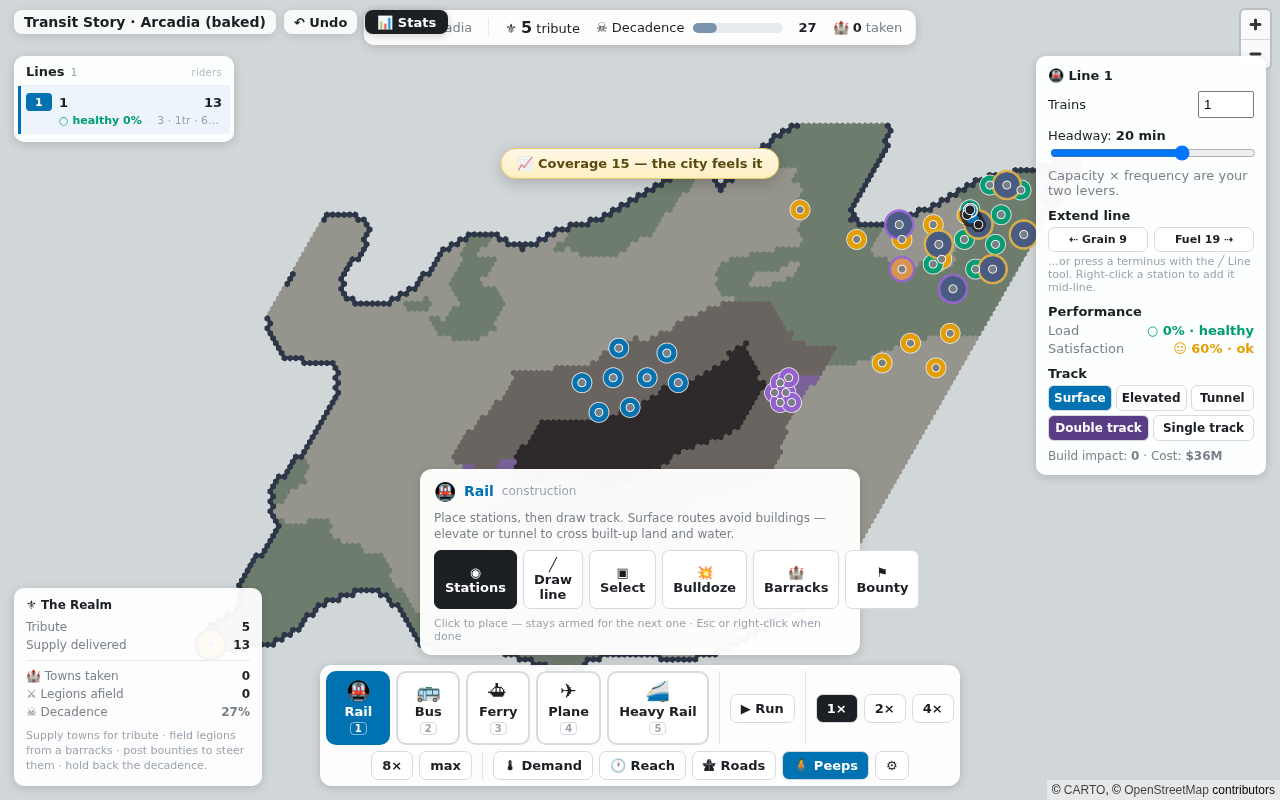
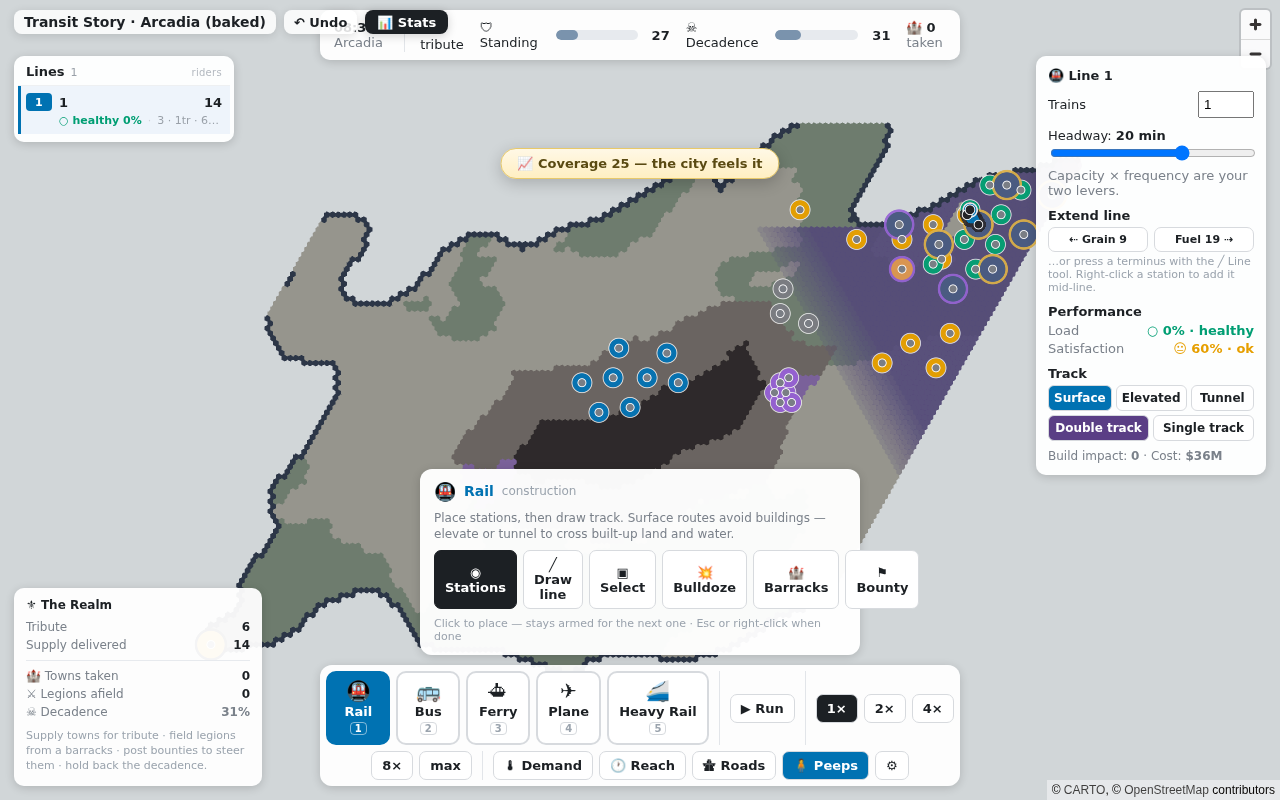
feat(sim): S7e step 2 — the 3-stage Forge-Line lands on the baked continent
Wire the iteration-11 multi-stage engine into the procedural world: the bake
now sites FORGE (processor) nodes and the ARMS towns demand [INGOT, AETHER]
(ore -> forge -> INGOT -> arms town), while BREAD towns stay the 2-stage
grain+fuel chain. Adding a processed good flips has_multistage true for the
baked world, so commodity-aware routing is now live end-to-end on the real
bundle.

- build_world.py: INGOT=4, ARMS_RECIPE=[INGOT,AETHER]; place_forges sites one
  forge per ARMS town on the ore->ARMS-town corridor (midpoint of the town and
  its nearest ore). emit gives each forge an INGOT-origin + ORE-dest demand cell
  (the sim classifies it a processor); forges ride the resources path so
  networkFromSupplyGraph places them as stations. Selftest extended + PASS.
- The corridor fix: the first cut sited forges on the ore->capital corridor, but
  ARMS towns sit by the ore highland, stranding forges ~43 km from the towns they
  feed (chain never primed — the multistage e2e caught it at tribute=0/75min).
  Re-sited to the ore->ARMS-town corridor: ~8-14 km legs, chain closes at ~25min.
- e2e: new fantasy-multistage.spec.ts proves the 3-stage chain on the real baked
  world; fantasy-play/fantasy-conquest supply via the 2-stage BREAD towns (raw
  recipe, commodity < 4) so a 3-stage ARMS town can't break their nearestSrc.
- render.ts: forge resource color (steel grey).

Tiers: cargo 202/0 (engine untouched since iteration 11 -> both goldens
[…]

Changed region(s): [[0.5938, 0.2188, 0.8125, 0.5938], [0.25, 0.0, 0.75, 0.0938]]

diff --git a/packages/app/e2e/fantasy-multistage.spec.ts b/packages/app/e2e/fantasy-multistage.spec.ts
@@ -1,0 +1,74 @@
+import { expect, test } from "@playwright/test";
+
+// S7e-2 — the 3-STAGE Forge-Line chain on the BAKED world. The baked continent now carries FORGE nodes
+// (processors) and ARMS towns whose recipe is [INGOT=4, AETHER=2]. INGOT has NO source — it must be
+// FORGED from ore at a forge node, then shipped onward. This proves, end-to-end on the real bundle +
+// geometry, that the full chain closes: ore → forge → INGOT → arms-town, plus aether → arms-town, both
+// consumed by Liebig → tribute. Tribute can ONLY appear if (a) the forge converted ore → ingot and (b)
+// commodity-aware routing carried the ore to the forge (not past it to the town) — so a positive tribute
+// is direct proof the processor + commodity routing work on the baked data. Deterministic via tickMs.
+test("fantasy baked world: 3-stage Forge-Line (ore → forge → arms town) yields tribute", async ({ page }) => {
+  test.setTimeout(60_000);
+  await page.goto("/?city=fantasy");
+  await page.waitForFunction(() => (window as any).__APP_READY && (window as any).__MAP_READY, undefined, { timeout: 30_000 });
+
+  const start = await page.evaluate(async () => {
+    const m = await (await fetch("/data/fantasy_world.json")).json();
+    const sg = m.supplyGraph;
+    const nt = sg.towns.length;
+    const KIND: Record<string, number> = { ore: 0, grain: 1, aether: 2, fuel: 3 };
+    const hex = (a: any, b: any) => (Math.abs(a.q - b.q) + Math.abs(a.q + a.r - b.q - b.r) + Math.abs(a.r - b.r)) / 2;
+    // nearest RAW resource of a commodity to a node → station id (towns 0..nt-1, then resources at nt+ri)
+    const nearestSrc = (node: any, comm: number) => {
+      let bi = -1, bd = 1e9;
+      sg.resources.forEach((r: any, ri: number) => {
+        if (KIND[r.kind] === comm) { const d = hex(node, r); if (d < bd) { bd = d; bi = ri; } }
+      });
+      return bi < 0 ? -1 : nt + bi;
+    };
+    // nearest FORGE (processor node) to a node → station id
+    const nearestForge = (node: any) => {
+      let bi = -1, bd = 1e9;
+      sg.resources.forEach((r: any, ri: number) => {
+        if (r.kind === "forge") { const d = hex(node, r); if (d < bd) { bd = d; bi = ri; } }
+      });
+      return bi < 0 ? -1 : nt + bi;
+    };
+    // an ARMS town: recipe includes INGOT (4) — a 3-stage chain (INGOT is forged from ore, not mined).
+    const armsTi = sg.towns.findIndex((t: any) => Array.isArray(t.recipe) && t.recipe.includes(4));
+    const arms = sg.towns[armsTi];
+    const forgeSid = nearestForge(arms);          // the forge nearest the arms town
+    const forge = sg.resources[forgeSid - nt];
+    const oreSid = nearestSrc(forge, 0);          // ore for the forge to convert → INGOT
+    const aetherSid = nearestSrc(arms, 2);        // aether (the arms town's other Liebig input)
+    const tt = (window as any).__ot_test;
+    // The player wires the chain across three lines: ore→forge, forge→arms-town, aether→arms-town.
+    tt.drawLine([oreSid, forgeSid]);   // stage 1: mine ore → forge (forge consumes ore, makes INGOT)
+    tt.drawLine([forgeSid, armsTi]);   // stage 2: forge INGOT → arms town
+    tt.drawLine([aetherSid, armsTi]);  // stage 3: aether → arms town (the second Liebig input)
+    for (let l = 0; l < 3; l++) { tt.assignTrainset(l, 4); tt.setHeadwayMs(l, 120000); }
+    return { ruleset: tt.stats().ruleset, armsRecipe: arms.recipe, forgeKind: forge.kind, oreSid, forgeSid, aetherSid };
+  });
+  expect(start.ruleset).toBe("arcadia");
+  expect(start.armsRecipe).toContain(4);      // a genuine 3-stage (INGOT-consuming) town
+  expect(start.forgeKind).toBe("forge");      // the middle node is a processor
+  expect(start.oreSid).toBeGreaterThan(0);    // every leg resolved to a real station
+  expect(start.aetherSid).toBeGreaterThan(0);
+
+  // Run a long deterministic stretch (each tickMs step is instant — no rAF). The forge must first
+  // accumulate ore, convert it to INGOT, and ship it on before the arms town can consume INGOT+AETHER —
+  // a longer ramp than a 2-stage chain, so budget generously (still well inside the decadence runway).
+  let tribute = 0;
+  const traj: number[] = [];
+  for (let i = 0; i < 30; i++) {
+    tribute = await page.evaluate(() => {
+      (window as any).__ot_test.tickMs(150000); // 150 sim-sec per step
+      return (window as any).__ot_test.stats().tribute;
+    });
+    traj.push(tribute);
+    if (tribute > 0) break;
+  }
+  // eslint-disable-next-line no-console
+  console.log("3-STAGE FORGE-LINE tribute trajectory:", JSON.stringify(traj));
+  expect(tribute).toBeGreaterThan(0); // the full 3-stage chain closed on the real baked world
+});

diff --git a/packages/app/e2e/fantasy-play.spec.ts b/packages/app/e2e/fantasy-play.spec.ts
@@ -33,10 +33,12 @@ test("fantasy baked world is playable: supply flows to tribute", async ({ page }
     const nt = sg.towns.length;
     const KIND: Record<string, number> = { ore: 0, grain: 1, aether: 2, fuel: 3 };
     const hex = (a: any, b: any) => (Math.abs(a.q - b.q) + Math.abs(a.q + a.r - b.q - b.r) + Math.abs(a.r - b.r)) / 2;
-    // S7e-2: a baked town demands BOTH inputs of its chain (BREAD = grain+fuel, ARMS = ore+aether) — Liebig.
-    // Pick a 2-input town, find the nearest source of EACH required commodity, and run a line src1→town→src2
-    // so both chains reach it (one input alone yields no tribute). Station ids: towns 0..nt-1, then resources.
-    const ti = sg.towns.findIndex((t: any) => t.kind !== "capital" && t.recipe?.length === 2);
+    // S7e-2: a baked town demands BOTH inputs of its chain — Liebig. Pick a 2-stage BREAD town (recipe =
+    // grain+fuel, both commodities < 4 → railable directly from raw sources), find the nearest source of
+    // EACH required commodity, and run a line src1→town→src2 so both chains reach it (one input alone yields
+    // no tribute). The 3-stage ARMS towns (recipe includes INGOT=4, which has no source — it's forged) are
+    // proven separately by fantasy-multistage.spec.ts. Station ids: towns 0..nt-1, then resources.
+    const ti = sg.towns.findIndex((t: any) => t.kind !== "capital" && t.recipe?.length === 2 && t.recipe.every((c: number) => c < 4));
     const town = sg.towns[ti];
     const nearestSrc = (comm: number) => {
       let bi = -1, bd = 1e9;

diff --git a/packages/app/e2e/fantasy-conquest.spec.ts b/packages/app/e2e/fantasy-conquest.spec.ts
@@ -27,9 +27,13 @@ test("fantasy baked world is winnable: supply → legions → conquest, realm ho
     const tt = (window as any).__ot_test;
     const capitalIdx = sg.towns.findIndex((t: any) => t.kind === "capital");
     const sinks = sg.towns.map((t: any, i: number) => ({ t, i })).filter((x: any) => x.t.kind !== "capital" && x.t.recipe?.length === 2);
+    // Supply via the 2-stage BREAD towns (raw recipe, commodity < 4) — directly railable from raw sources.
+    // ARMS towns are now 3-stage (need INGOT from a forge, commodity ≥ 4); their chain is exercised by
+    // fantasy-multistage.spec.ts. Tribute from BREAD funds the legions all the same.
+    const breadSinks = sinks.filter((x: any) => x.t.recipe.every((c: number) => c < 4));
     let line = 0;
-    // Supply: connect two towns' full chains (src1→town→src2) so the two-chain Liebig tribute flows.
-    for (const { t, i } of sinks.slice(0, 2)) {
+    // Supply: connect two BREAD towns' full chains (src1→town→src2) so the two-chain Liebig tribute flows.
+    for (const { t, i } of breadSinks.slice(0, 2)) {
       tt.drawLine([nearestSrc(t, t.recipe[0]), i, nearestSrc(t, t.recipe[1])]);
       tt.assignTrainset(line, 4);
       tt.setHeadwayMs(line, 120000);

diff --git a/packages/app/src/render.ts b/packages/app/src/render.ts
@@ -167,6 +167,7 @@ function resourceColor(kind: string): [number, number, number] {
     case "grain": return [230, 159, 0];   // wheat gold
     case "fuel": return [0, 158, 115];    // forest green
     case "aether": return [148, 96, 210]; // arcane violet
+    case "forge": return [120, 124, 130];  // steel grey — a PROCESSOR (ore → INGOT), S7e multi-stage
     default: return [200, 200, 200];
   }
 }

diff --git a/scripts/build_world.py b/scripts/build_world.py
@@ -72,11 +72,15 @@ RES_GLYPH = {"ore": "O", "grain": "G", "fuel": "F", "aether": "A"}
 # Forge-Line commodity index per resource kind — MUST match crates/sim/forge.rs (ORE=0, GRAIN=1, AETHER=2,
 # FUEL=3). A source's demand cell carries this so the sim assigns the station's output commodity (S7e).
 COMMODITY_IDX = {"ore": 0, "grain": 1, "aether": 2, "fuel": 3}
-# The two disjoint chains (S7e-2 Liebig recipes): BREAD = grain+fuel feeds towns; ARMS = ore+aether arms
-# legions. A town's recipe is the chain its NEAREST resource belongs to — so breadbasket towns demand BREAD,
-# highland towns demand ARMS, and the two chains stay geographically separate (the disjoint-chain payoff).
-BREAD_KINDS = ["grain", "fuel"]
-ARMS_KINDS = ["ore", "aether"]
+INGOT = 4  # a MID good (>= forge::FIRST_MID=4): a FORGE processes ORE → INGOT (S7e multi-stage)
+# The two disjoint chains. BREAD = grain+fuel (2-stage) feeds towns. ARMS is now 3-STAGE (S7e multi-stage):
+# ORE is mined → a FORGE forges it into INGOT → an ARMS town consumes INGOT + AETHER. So ARMS towns demand
+# [INGOT, AETHER] (not raw ore), and the player must rail ore → forge → town. BREAD stays the 2-stage
+# grain+fuel chain. Commodity indices MUST match crates/sim/forge.rs.
+BREAD_RECIPE = [COMMODITY_IDX["grain"], COMMODITY_IDX["fuel"]]
+ARMS_RECIPE = [INGOT, COMMODITY_IDX["aether"]]
+# How many INGOT forges to site (in the corridor between the ore highland and the lowland ARMS towns).
+FORGE_BUDGET = 4
 
 # --- S3 towns (docs/fantasy-map.md): the supply SINKS (consume delivered goods → tribute) AND the
 #     conquest targets. Suitability-sited near resource clusters (so they're worth taking + can be fed/
@@ -353,6 +357,36 @@ def place_resources(biome, capital, rough):
     return out
 
 
+def place_forges(biome, resources, towns):
+    """S7e multi-stage: site INGOT forges ON THE ORE → ARMS-TOWN CORRIDOR, so the player rails ORE → forge →
+    ARMS town over two reasonable legs (a forge sited toward the capital instead would strand it ~40 km from
+    the ARMS towns it feeds — the chain would never prime). One forge per ARMS town (the towns whose recipe
+    needs INGOT), placed at the passable cell nearest the midpoint of that town and its NEAREST ore resource.
+    Deterministic; a forge is a PROCESSOR (origin INGOT + dest ORE) the sim classifies from its demand cells.
+    Returns dicts {kind:"forge", q, r, yield}."""
+    ore_res = [(x["q"], x["r"]) for x in resources if x["kind"] == "ore"]
+    arms_towns = [t for t in towns if t.get("recipe") and INGOT in t["recipe"]]
+    forges, used = [], set()
+    for t in arms_towns:
+        if len(forges) >= FORGE_BUDGET or not ore_res:
+            break
+        tq, tr = t["q"], t["r"]
+        oq, orr = min(ore_res, key=lambda o: (hex_dist(o, (tq, tr)), o[1], o[0]))  # ore nearest THIS town
+        mq, mr = (oq + tq) // 2, (orr + tr) // 2  # corridor midpoint ore ↔ arms town
+        best, bd = None, 1 << 30
+        for r in range(H):
+            for q in range(W):
+                if biome[r, q] in (WATER, MOUNTAIN) or (q, r) in used:
+                    continue
+                d = hex_dist((q, r), (mq, mr))
+                if d < bd:
+                    bd, best = d, (q, r)
+        if best is not None:
+            used.add(best)
+            forges.append({"kind": "forge", "q": int(best[0]), "r": int(best[1]), "yield": 80})
+    return forges
+
+
 def place_towns(biome, capital, resources, rough, ore_att):
     """S3: the capital + Poisson-spread neutral towns, suitability-sited near resource clusters and graded
     by distance from the capital into the expansion arc. Each town carries an i64 value and a 2–3-good
@@ -395,8 +429,9 @@ def place_towns(biome, capital, resources, rough, ore_att):
     sinks.sort(key=lambda t: (hex_dist((t["q"], t["r"]), ore_att), t["r"], t["q"]))
     n_arms = max(1, len(sinks) // 3)
     for i, t in enumerate(sinks):
-        kinds = ARMS_KINDS if i < n_arms else BREAD_KINDS
-        t["recipe"] = [COMMODITY_IDX[k] for k in kinds]
+        # ARMS towns are 3-stage (need INGOT from a forge + aether); BREAD towns are 2-stage (grain+fuel).
+        t["recipe"] = list(ARMS_RECIPE) if i < n_arms else list(BREAD_RECIPE)
+        t["chain"] = "arms" if i < n_arms else "bread"
     return towns
 
 
@@ -546,10 +581,13 @@ def generate(seed):
     ore_att, bread_att = pick_attractors(biome, capital)
     # S3: capital + Poisson-spread neutral towns, suitability-sited near resources, expansion-arc graded.
     towns = place_towns(biome, capital, resources, rough, ore_att)
+    # S7e multi-stage: INGOT forges on the ore→ARMS-town corridor (placed AFTER towns so each ARMS town's
+    # forge sits between it and its nearest ore — kept in a separate list: infrastructure, not an attractor).
+    forges = place_forges(biome, resources, towns)
     # S4: seed the decadence (per-town floor + far-edge reservoir + capital grace).
     decadence = seed_decadence(biome, capital, towns)
     return biome, capital, {"elev": elev, "moisture": moisture, "passes": passes, "land": land,
-                            "resources": resources, "towns": towns, "decadence": decadence,
+                            "resources": resources, "forges": forges, "towns": towns, "decadence": decadence,
                             "ore_att": ore_att, "bread_att": bread_att}
 
 
@@ -623,8 +661,9 @@ def cell_lonlat(q, r):
     return round(lng, 6), round(lat, 6)
 
 
-def emit(cid, seed, biome, capital, resources, towns, decadence):
+def emit(cid, seed, biome, capital, resources, towns, decadence, forges=None):
     """Serialize the world + buildability + demand packs. Returns the cells list (for the self-test)."""
+    forges = forges or []
     land = biome != WATER
     # emit every land cell + a 1-ring water margin (the coastline); skip deep ocean to bound size
     near_land = land.copy()
@@ -667,6 +706,12 @@ def emit(cid, seed, biome, capital, resources, towns, decadence):
         dw = float(town["value"]) / 100.0
         for c in town["recipe"]:
             dcells.append({"lon": tlng, "lat": tlat, "originWeight": 1.0, "destWeight": dw, "commodity": c})
+    for forge in forges:                             # S7e: a forge is a PROCESSOR — it CONSUMES ore (dest
+        flng, flat = cell_lonlat(forge["q"], forge["r"])  # ORE) and PRODUCES ingot (origin INGOT) shipped on.
+        dcells.append({"lon": flng, "lat": flat, "originWeight": float(forge["yield"]) / 10.0,
+                       "destWeight": 1.0, "commodity": INGOT})            # output: it makes INGOT
+        dcells.append({"lon": flng, "lat": flat, "originWeight": 1.0,
+                       "destWeight": float(forge["yield"]) / 10.0, "commodity": COMMODITY_IDX["ore"]})  # input: ore
     demand = {"cellM": GRID_CELL_MM / 1000.0, "bbox": bbox, "cells": dcells}
     json.dump(demand, open(os.path.join(OUT, f"{cid}_demand.json"), "w"), separators=(",", ":"))
 
@@ -678,7 +723,7 @@ def emit(cid, seed, biome, capital, resources, towns, decadence):
                 round(float(GRID_CELL_MM) * (1.5 * r)))
 
     sg_resources = []
-    for res in resources:
+    for res in resources + forges:  # forges ride the resources path → networkFromSupplyGraph places them
         x_mm, y_mm = to_mm(res["q"], res["r"])
         sg_resources.append({"kind": res["kind"], "q": res["q"], "r": res["r"],
                              "xMm": x_mm, "yMm": y_mm, "yield": res["yield"]})
@@ -822,14 +867,15 @@ def selftest(seed):
           >= min(neutrals, key=lambda t: hex_dist((t["q"], t["r"]), cap1))["value"])
     check("every town has a 2–3 good demand set", all(1 <= len(t["demands"]) <= 3 for t in towns))
     check("determinism: town placement identical across two bakes", towns == f2["towns"])
-    # S7e-2: every sink town has a 2-input chain recipe (BREAD grain+fuel or ARMS ore+aether), and BOTH
-    # chains have consumers (so ore+aether AND grain+fuel all matter — the disjoint-chain payoff).
-    BREAD, ARMS = [COMMODITY_IDX["grain"], COMMODITY_IDX["fuel"]], [COMMODITY_IDX["ore"], COMMODITY_IDX["aether"]]
+    # S7e-2 + S7e multi-stage: every sink town has a 2-input chain recipe — BREAD = grain+fuel (2-stage) or
+    # ARMS = INGOT+aether (3-STAGE: ore→forge→INGOT). BOTH chains have consumers (the disjoint-chain payoff).
     sink_recipes = [sorted(t["recipe"]) for t in towns if t["kind"] != "capital"]
-    n_bread = sum(1 for r in sink_recipes if r == sorted(BREAD))
-    n_arms = sum(1 for r in sink_recipes if r == sorted(ARMS))
+    n_bread = sum(1 for r in sink_recipes if r == sorted(BREAD_RECIPE))
+    n_arms = sum(1 for r in sink_recipes if r == sorted(ARMS_RECIPE))
     check(f"every sink town demands a full chain (BREAD×{n_bread} + ARMS×{n_arms}); both chains consumed",
-          all(sorted(r) in (sorted(BREAD), sorted(ARMS)) for r in sink_recipes) and n_bread > 0 and n_arms > 0)
+          all(sorted(r) in (sorted(BREAD_RECIPE), sorted(ARMS_RECIPE)) for r in sink_recipes) and n_bread > 0 and n_arms > 0)
+    # S7e multi-stage: the ARMS chain needs forges (ore→INGOT) — at least one, reachable from the capital.
+    check(f"S7e: forges sited for the 3-stage ARMS chain ({len(f1['forges'])})", len(f1["forges"]) >= 1)
 
     # --- S4 decadence seed: clean capital + grace, corrupt frontier, loseable reservoir ---
     dec = f1["decadence"]
@@ -874,9 +920,10 @@ def selftest(seed):
           V_AETHER_MIN <= by_cert["aether"] <= V_AETHER_MAX
           and all(by_cert[k] >= V_MIN_PER_KIND for k in ("grain", "fuel", "ore")))
 
+    check("determinism: forge placement identical across two bakes (S7e multi-stage)", f1["forges"] == f2["forges"])
     # determinism through serialization (the frozen artifact is byte-stable)
-    c1 = emit("__selftest_a", seed, b1, cap1, res, towns, dec)
-    c2 = emit("__selftest_b", seed, b2, cap2, f1["resources"], f1["towns"], f2["decadence"])
+    c1 = emit("__selftest_a", seed, b1, cap1, res, towns, dec, f1["forges"])
+    c2 = emit("__selftest_b", seed, b2, cap2, f1["resources"], f1["towns"], f2["decadence"], f2["forges"])
     check("determinism: serialized cells byte-identical",
           json.dumps(c1, sort_keys=True) == json.dumps(c2, sort_keys=True))
     for suf in ("a", "b"):
@@ -914,7 +961,7 @@ def main():
     elif cert != seed:
         print(f"  [S6] requested seed {seed} not winnable; certified seed {cert}")
     seed = cert
-    cells = emit(cid, seed, biome, capital, fields["resources"], fields["towns"], fields["decadence"])
+    cells = emit(cid, seed, biome, capital, fields["resources"], fields["towns"], fields["decadence"], fields["forges"])
     hist = biome_hist(biome)
     from collections import Counter
     rby = Counter(x["kind"] for x in fields["resources"])

diff --git a/PROGRESS.md b/PROGRESS.md
@@ -2470,6 +2470,33 @@ golden-neutral by construction** (gated on `has_multistage`), adversarially veri
   (S7e step 2, optional):** the bake places forge nodes + 3-stage chains on the continent (a re-bake +
   conquest-e2e re-verify, since it changes the baked supply topology) — the engine is ready for it.
 
+**S7e STEP 2 — the 3-stage Forge-Line lands on the BAKED continent, 2026-06-14.** The engine from
+iteration 11 is now WIRED into the procedural world: the bake sites FORGE (processor) nodes and the ARMS
+towns demand `[INGOT, AETHER]` (3-stage: ore → forge → INGOT → arms town), while BREAD towns stay the
+2-stage grain+fuel chain. Adding a processed good flips `has_multistage` true for the baked world, so
+commodity-aware routing is now LIVE end-to-end on the real bundle — re-verified, still winnable.
+
+- **Bake (`build_world.py`):** `INGOT=4`, `ARMS_RECIPE=[INGOT,AETHER]`, `BREAD_RECIPE=[grain,fuel]`;
+  `place_forges` sites one forge per ARMS town **on the ore→ARMS-town corridor** (the passable cell nearest
+  the midpoint of that town and its nearest ore). `emit` gives each forge an INGOT-origin + ORE-dest demand
+  cell (the sim classifies it a processor); forges ride the `resources` path so `networkFromSupplyGraph`
+  places them as stations. Selftest extended (forge count ≥1, ARMS/BREAD recipe chain-check, forge
+  placement deterministic across two bakes) — **PASS**.
+- **The corridor fix (the load-bearing geometry):** the FIRST cut sited forges on the ore→**capital**
+  corridor — but ARMS towns sit by the ore HIGHLAND, not the capital, so forges stranded ~43 km from the
+  towns they feed and the chain never primed (the `fantasy-multistage` e2e caught this: tribute=0 over
+  75 sim-min). Re-sited to the ore→**ARMS-town** corridor: all three legs are now ~8–14 km and the chain
+  closes (tribute at ~25 sim-min). Good gameplay AND a passing gate — the e2e was the design check.
+- **wasm rebuilt** with the iteration-11 engine (`packages/wasm-sim` was stale, predating the S7e commit) —
+  so the forge processor + commodity routing are actually in the bundle the e2e drives.
+- **e2e:** new `fantasy-multistage.spec.ts` rails ore→forge + forge→arms-town + aether→arms-town on the REAL
+  baked world and asserts tribute>0 (only possible if the forge converted ore→ingot AND commodity routing
+  carried each good to the right node). `fantasy-play`/`fantasy-conquest` supply via the 2-stage BREAD towns
+  (raw recipe, commodity < 4) so a 3-stage ARMS town can't break their `nearestSrc` wiring.
+- Tiers: cargo **202/0** (engine untouched since iteration 11 ⇒ both goldens still unchanged) ·
+  `build_world --selftest` **PASS** · full e2e **22/22** (incl. the new 3-stage gate; conquest still
+  winnable + realm holds) · vitest **21/21** · `tsc` clean. Bake/frontend-only — no core change, no re-pin.
+
 ## Known gaps / deferred
 
 - **T7 (self-host PMTiles)** — deferred per PLAN §15; slice ships on the hosted CARTO/MapLibre style. Not on the critical path.
